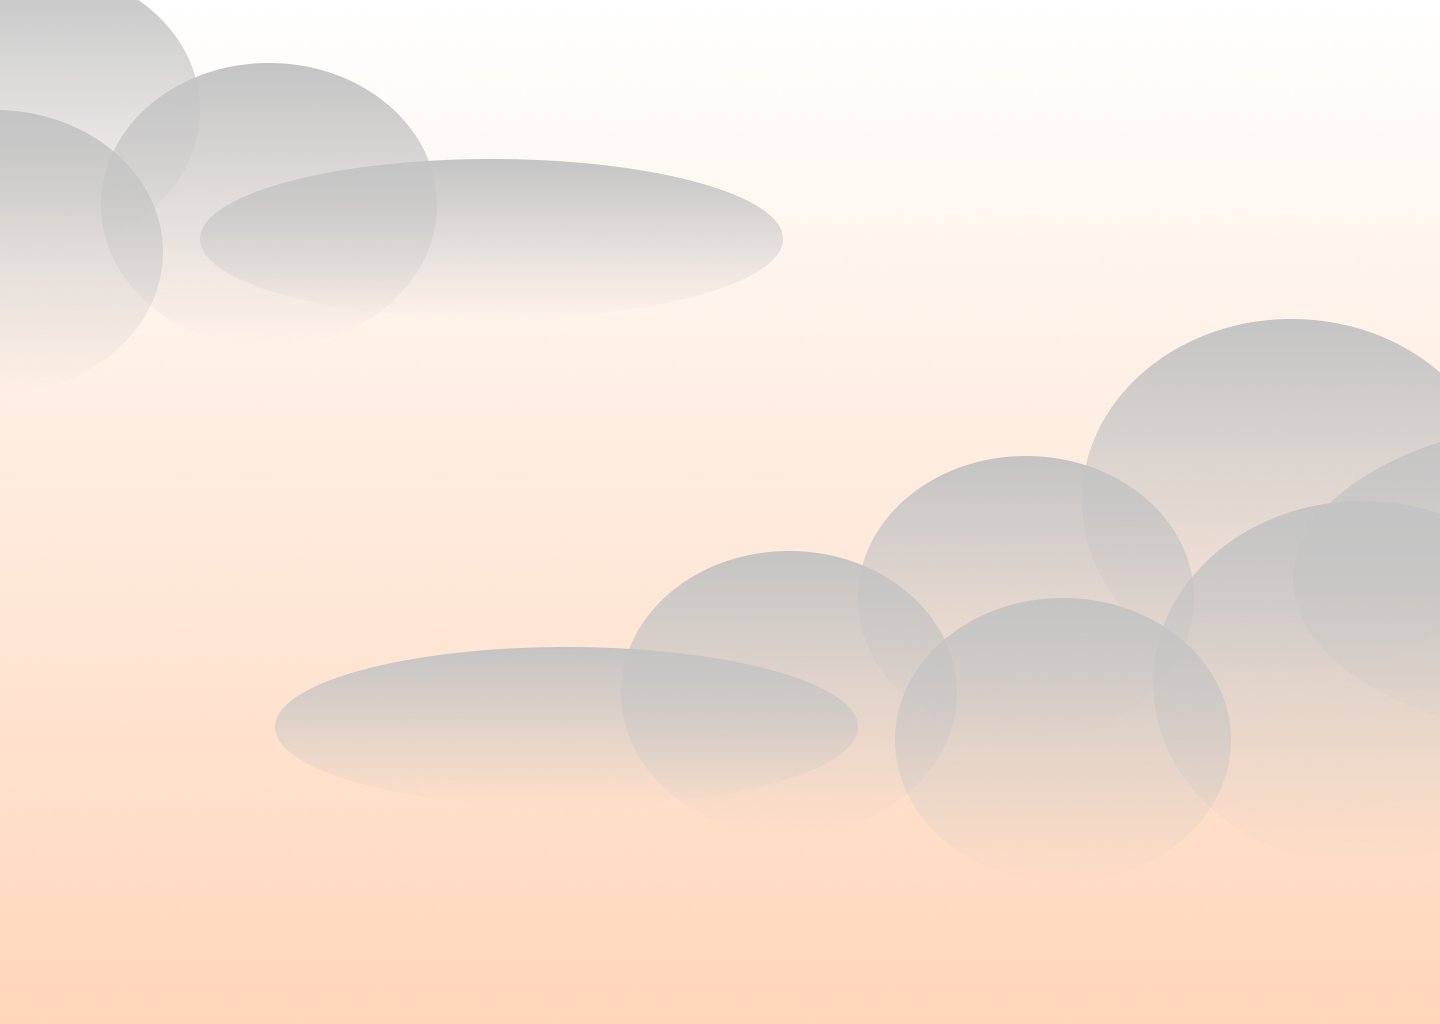
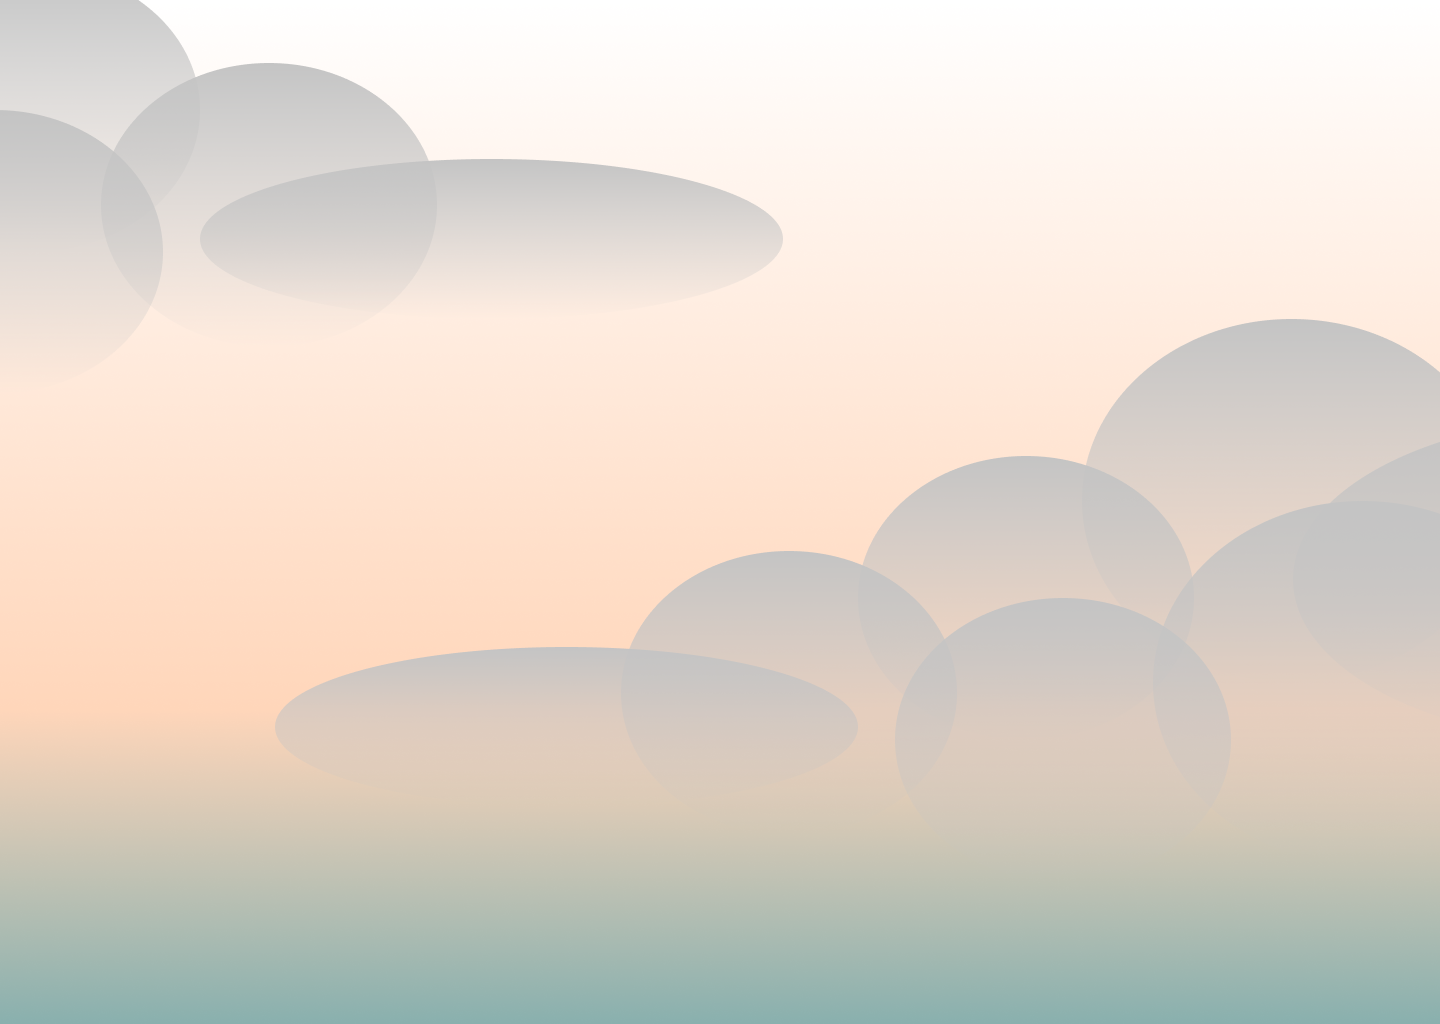
colour changes to match theme better

Changed region(s): [[0.0, 0.75, 1.0, 1.0]]

diff --git a/public/styles.css b/public/styles.css
@@ -13,8 +13,6 @@ body {
     color: #BEE3D8;
 }
 
-
-
 .topnav {
     background-color: #89B0AE;
     overflow: hidden;
@@ -143,12 +141,17 @@ body {
     .sidenav {padding-top: 15px;}
     .sidenav a {font-size: 18px;}
 }
+
 h1, h2, h3, h4, h5, h6, .title, .btn {
     font-family: -apple-system, 'Helvetica', sans-serif;
     color: #555B6E;
 }
 
 a {
+    color: #89B0AE;
+}
+
+.dark_link {
     color: #555B6E;
 }
 
@@ -162,7 +165,7 @@ a {
 #landing_div {
     background-image: url("img/landing_bg.png");
     background-size: 100%;
-    background-color: #FFD6BA;
+    background-color: #89B0AE;
     background-repeat: no-repeat;
     border-color: none;
     height: 780px;
@@ -178,7 +181,7 @@ a {
 .form_bg {
     background-image: url("img/landing_bg.png");
     background-size: 100%;
-    background-color: #FFD6BA;
+    background-color: #89B0AE;
     background-repeat: no-repeat;
     border-color: none;
     padding: 50px;
@@ -186,7 +189,8 @@ a {
 
 .form, .form_ideas {
     background: white;
-    padding: 80px 80px;
+    padding: 60px 60px;
+    border-radius: 15px;
 }
 
 .form {
@@ -208,16 +212,17 @@ input, textarea {
 button {
     color: #555B6E;
     border-radius: 5px;
-    background: #FFD6BA;
+    border: none;
+    background: #89B0AE;
+    padding: 5px 10px;
     margin: 5px 0px 15px;
+    font-size: 20px;
 }
 
 .btn-outline-secondary {
     border-color: #555B6E;
+    color: #555B6E;
+    border-width: 2px;
     margin: 5px 0px 15px;
     font-size: 36px;
-}
-
-#check {
-    text-align: left;
 }

diff --git a/public/create_user.html b/public/create_user.html
@@ -33,7 +33,7 @@
 
 
   </head>
-  <body style="background-color:#FFD6BA">
+  <body style="background-color:#89B0AE;">
     <div class="form_bg">
       <form>
       <div class="form">
@@ -47,19 +47,19 @@
             <input type="text" id = "last_name" class="form-control">
           </div>
           <div class="form_component">
-            <label for="Username">Username</label>
-            <input type="text" id = "username" class="form-control">
-          </div>
-          <div class="form_component">
             <label for="Email">Email address</label>
             <input type="email" id = "email" class="form-control">
+          </div>
+          <div class="form_component">
+            <label for="Username">Username</label>
+            <input type="text" id = "username" class="form-control">
           </div>
           <div class="form_component">
             <label for="Password">Password</label>
             <input type="password" id = "password" class="form-control">
           </div>
           <button id="sign-up" type = "button">Submit</button>
-          <h5><a href="index.html">Home</a>  |  <a href="sign_in.html">Sign In</a></h5>
+          <p><h5><a href="index.html">Home</a>  |  <a href="sign_in.html">Sign In</a></h5></p>
         </div>
       </form>
     </div>

diff --git a/public/submit_idea.html b/public/submit_idea.html
@@ -38,7 +38,7 @@
     <link rel = "stylesheet" href = "styles.css">
     </style>
   </head>
-  <body style="background-color:#FFD6BA">
+  <body style="background-color:#89B0AE">
     <!-- Submit an idea form -->
     <div class="form_bg">
         <form>
@@ -132,9 +132,9 @@
                     </div>
                 </div>
             </div>
-
             <button type="submit">Submit</button>
-            <h5><a href="index.html">Home</a>  |  <a href="sign_in.html">Sign In</a></h5>
+            <a href="index.html" style="margin-left: 15px;">Delete</a>
+            <p><h5><a href="index.html">Home</a>  |  <a href="sign_in.html">Sign In</a></h5></p>
           </div>
         </form>
       </div>

diff --git a/public/sign_in.html b/public/sign_in.html
@@ -31,7 +31,7 @@
     <link rel = "stylesheet" href = "styles.css">
 
   </head>
-  <body style="background-color:#FFD6BA">
+  <body style="background-color:#89B0AE">
     <div class="form_bg">
       <form>
       <div class="form">
@@ -45,7 +45,7 @@
             <input type="password" id = "password" class="form-control">
           </div>
           <button id = "sign-in" type="button">Submit</button>
-          <h5><a href="index.html">Home</a>  |  <a href="create_user.html">Sign Up</a></h5>
+          <p><h5>Don't have an account? Sign up <a href="create_user.html">here</a></h5></p>
           <button type="password-reset">Reset Password</button>
         </div>
       </form>

diff --git a/public/index.html b/public/index.html
@@ -30,7 +30,7 @@
     <link rel = "stylesheet" href = "styles.css">
     </style>
   </head>
-  <body>
+  <body style="background-color: #89B0AE;">
 
     <!-- First landing div -->
     <div id="landing_div">
@@ -38,7 +38,7 @@
       <div>
         <h1><i>build your dreams here</i></h1></br>
         <a href="submit_idea.html" class="btn btn-outline-secondary btn-lg" role="button" aria-pressed=true>Submit your idea here</a>
-        <h3><a href="create_user.html">Sign Up</a>  |  <a href="sign_in.html">Sign In</a></h3>
+        <h3><a href="create_user.html" class="dark_link">Sign Up</a>  |  <a href="sign_in.html" class="dark_link">Sign In</a></h3>
       </div>
     </div>
 
